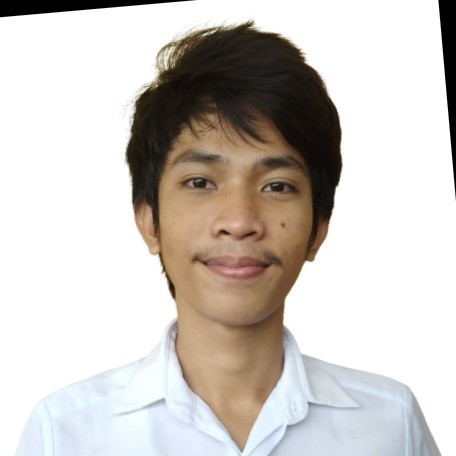
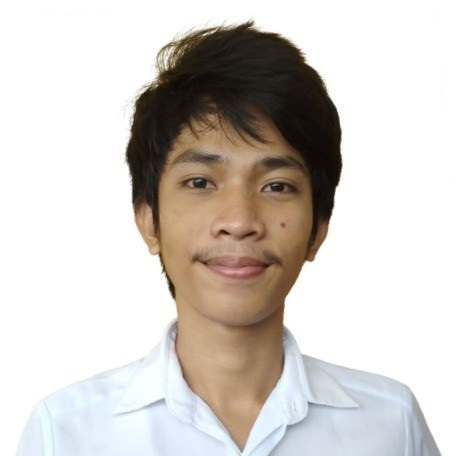
Updated Personal Details

Changed region(s): [[0.9518, 0.0, 1.0, 0.4298], [0.0, 0.0, 0.3991, 0.0614]]

diff --git a/index.html b/index.html
@@ -76,34 +76,34 @@
 
         <div class="section-title">
           <h2>About</h2>
-          <p>Magnam dolores commodi suscipit. Necessitatibus eius consequatur ex aliquid fuga eum quidem. Sit sint consectetur velit. Quisquam quos quisquam cupiditate. Et nemo qui impedit suscipit alias ea. Quia fugiat sit in iste officiis commodi quidem hic quas.</p>
+          <p>Hello! My name is Renmar Balana, and I'm currently a third-year college student. I am passionate about data science, machine learning and the fast-developing field of AI. In my free time, I enjoy gardening and admiring the geometrical patterns of my succulents.</p>
+          <p>Feel free to explore my website to learn more about my work and projects. If you have any questions or would like to collaborate, don't hesitate to reach out to me.</p>
         </div>
 
         <div class="row">
           <div class="col-lg-4" data-aos="fade-right">
-            <img src="assets/img/profile-img.jpg" class="img-fluid" alt="">
+            <img src="assets/img/profile_pic.jpg" class="img-fluid" alt="">
           </div>
           <div class="col-lg-8 pt-4 pt-lg-0 content" data-aos="fade-left">
-            <h3>UI/UX Designer &amp; Web Developer.</h3>
+            <h3>Software Engineer &amp; Data Scientist.</h3>
             <p class="fst-italic">
-              Lorem ipsum dolor sit amet, consectetur adipiscing elit, sed do eiusmod tempor incididunt ut labore et dolore
-              magna aliqua.
+              I'm currently pursuing a Bachelor of Science degree in Computer Science at Bicol University. I am looking to gain experience in Software Engineering and Data Science.
             </p>
             <div class="row">
               <div class="col-lg-6">
                 <ul>
-                  <li><i class="bi bi-chevron-right"></i> <strong>Birthday:</strong> <span>1 May 1995</span></li>
-                  <li><i class="bi bi-chevron-right"></i> <strong>Website:</strong> <span>www.example.com</span></li>
-                  <li><i class="bi bi-chevron-right"></i> <strong>Phone:</strong> <span>+123 456 7890</span></li>
-                  <li><i class="bi bi-chevron-right"></i> <strong>City:</strong> <span>New York, USA</span></li>
+                  <li><i class="bi bi-chevron-right"></i> <strong>Birthday:</strong> <span>18 May 2002</span></li>
+                  <li><i class="bi bi-chevron-right"></i> <strong>Website:</strong> <span><a href="https://balanarenmar.github.io/" class="link-dark">https://balanarenmar.github.io/</a></span></li>
+                  <li><i class="bi bi-chevron-right"></i> <strong>Phone:</strong> <span>+63 949 146 3799</span></li>
+                  <li><i class="bi bi-chevron-right"></i> <strong>City:</strong> <span>Bacacay, Albay</span></li>
                 </ul>
               </div>
               <div class="col-lg-6">
                 <ul>
-                  <li><i class="bi bi-chevron-right"></i> <strong>Age:</strong> <span>30</span></li>
-                  <li><i class="bi bi-chevron-right"></i> <strong>Degree:</strong> <span>Master</span></li>
-                  <li><i class="bi bi-chevron-right"></i> <strong>PhEmailone:</strong> <span>email@example.com</span></li>
-                  <li><i class="bi bi-chevron-right"></i> <strong>Freelance:</strong> <span>Available</span></li>
+                  <li><i class="bi bi-chevron-right"></i> <strong>Age:</strong> <span>21</span></li>
+                  <li><i class="bi bi-chevron-right"></i> <strong>Degree:</strong> <span>Bachelor's (to be)</span></li>
+                  <li><i class="bi bi-chevron-right"></i> <strong>Email:</strong> <span>renmarfrancia.balana@bicol-u.edu.ph</span></li>
+                  <!-- <li><i class="bi bi-chevron-right"></i> <strong>Freelance:</strong> <span>Available</span></li> -->
                 </ul>
               </div>
             </div>
@@ -116,54 +116,6 @@
 
       </div>
     </section><!-- End About Section -->
-
-    <!-- ======= Facts Section ======= -->
-    <section id="facts" class="facts">
-      <div class="container">
-
-        <div class="section-title">
-          <h2>Facts</h2>
-          <p>Magnam dolores commodi suscipit. Necessitatibus eius consequatur ex aliquid fuga eum quidem. Sit sint consectetur velit. Quisquam quos quisquam cupiditate. Et nemo qui impedit suscipit alias ea. Quia fugiat sit in iste officiis commodi quidem hic quas.</p>
-        </div>
-
-        <div class="row no-gutters">
-
-          <div class="col-lg-3 col-md-6 d-md-flex align-items-md-stretch" data-aos="fade-up">
-            <div class="count-box">
-              <i class="bi bi-emoji-smile"></i>
-              <span data-purecounter-start="0" data-purecounter-end="232" data-purecounter-duration="1" class="purecounter"></span>
-              <p><strong>Happy Clients</strong> consequuntur quae</p>
-            </div>
-          </div>
-
-          <div class="col-lg-3 col-md-6 d-md-flex align-items-md-stretch" data-aos="fade-up" data-aos-delay="100">
-            <div class="count-box">
-              <i class="bi bi-journal-richtext"></i>
-              <span data-purecounter-start="0" data-purecounter-end="521" data-purecounter-duration="1" class="purecounter"></span>
-              <p><strong>Projects</strong> adipisci atque cum quia aut</p>
-            </div>
-          </div>
-
-          <div class="col-lg-3 col-md-6 d-md-flex align-items-md-stretch" data-aos="fade-up" data-aos-delay="200">
-            <div class="count-box">
-              <i class="bi bi-headset"></i>
-              <span data-purecounter-start="0" data-purecounter-end="1453" data-purecounter-duration="1" class="purecounter"></span>
-              <p><strong>Hours Of Support</strong> aut commodi quaerat</p>
-            </div>
-          </div>
-
-          <div class="col-lg-3 col-md-6 d-md-flex align-items-md-stretch" data-aos="fade-up" data-aos-delay="300">
-            <div class="count-box">
-              <i class="bi bi-people"></i>
-              <span data-purecounter-start="0" data-purecounter-end="32" data-purecounter-duration="1" class="purecounter"></span>
-              <p><strong>Hard Workers</strong> rerum asperiores dolor</p>
-            </div>
-          </div>
-
-        </div>
-
-      </div>
-    </section><!-- End Facts Section -->
 
     <!-- ======= Skills Section ======= -->
     <section id="skills" class="skills section-bg">
@@ -624,8 +576,6 @@
       <div class="credits">
         <!-- All the links in the footer should remain intact. -->
         <!-- You can delete the links only if you purchased the pro version. -->
-        <!-- Licensing information: https://bootstrapmade.com/license/ -->
-        <!-- Purchase the pro version with working PHP/AJAX contact form: https://bootstrapmade.com/iportfolio-bootstrap-portfolio-websites-template/ -->
         Designed by <a href="https://bootstrapmade.com/">BootstrapMade</a>
       </div>
     </div>

diff --git a/assets/css/style.css b/assets/css/style.css
@@ -241,7 +241,7 @@ h6 {
 #hero {
   width: 100%;
   height: 100vh;
-  background: url("../img/hero-bg.jpg") top center;
+  background: url("../img/cover-photo-14.png") top center;
   background-size: cover;
 }
 
